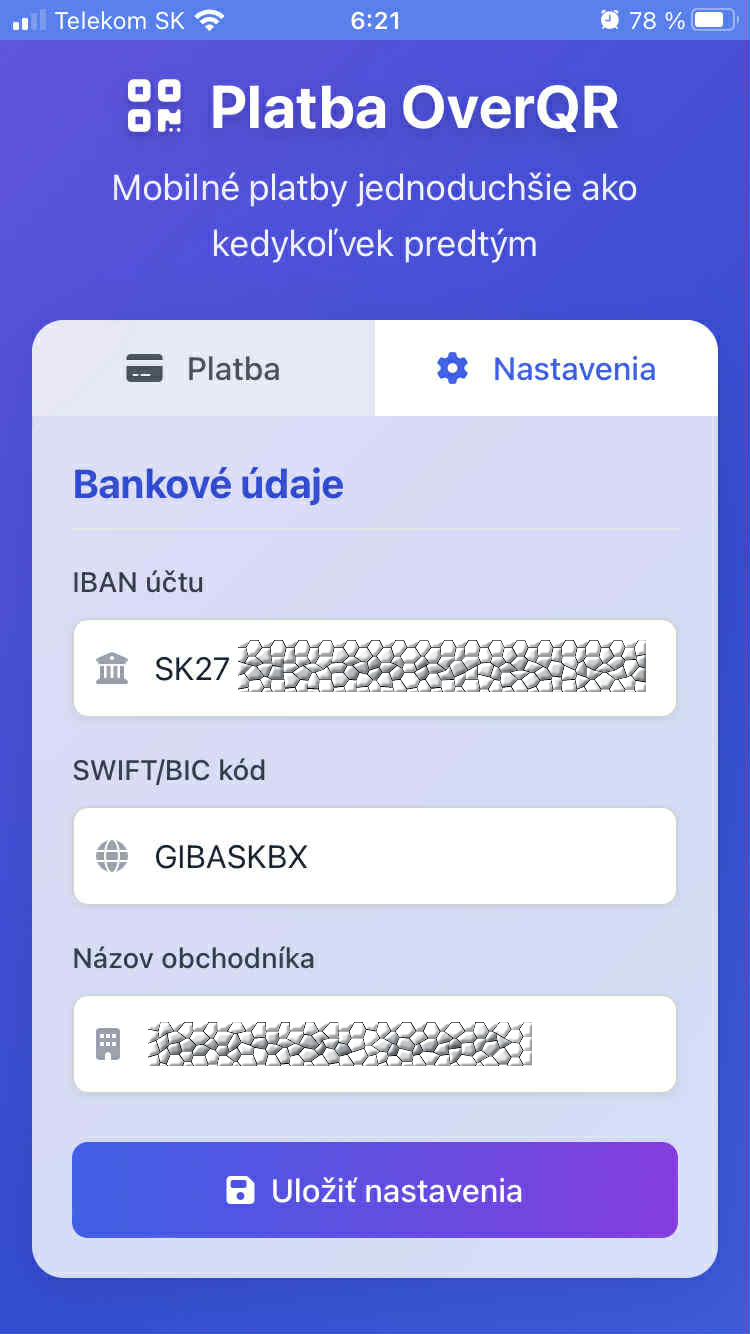
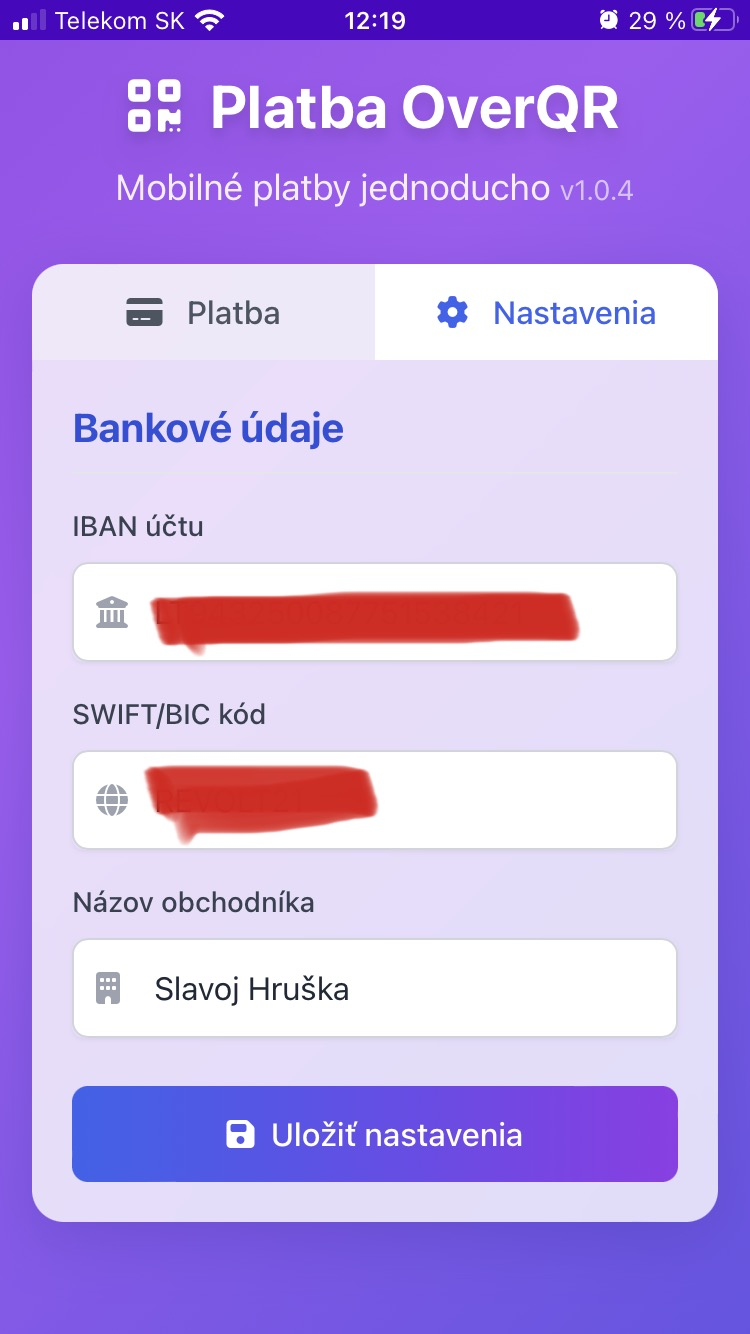
Vylepsenie upgrade procedury, koli CloudFlare cache

diff --git a/index.html b/index.html
@@ -36,7 +36,7 @@
     <meta name="apple-mobile-web-app-title" content="Platba OverQR">
 
     <!-- PWA podpora -->
-    <link rel="manifest" href="manifest.json">
+    <link rel="manifest" href="manifest.json?v=1.0.4">
     <link rel="icon" href="logo.svg" type="image/svg+xml">
     <link rel="icon" href="favicon.ico" type="image/x-icon">
     <link rel="shortcut icon" href="favicon.ico" type="image/x-icon">
@@ -71,7 +71,7 @@
     <script>
         if ('serviceWorker' in navigator) {
             window.addEventListener('load', function () {
-                navigator.serviceWorker.register('sw.js').then(function (registration) {
+                navigator.serviceWorker.register('sw.js?v=1.0.4').then(function (registration) {
                     // Registrácia bola úspešná
                     console.log('ServiceWorker registration successful with scope: ', registration.scope);
                     // Sledovanie úspešnej registrácie service workera
@@ -229,7 +229,7 @@
             }); var f = d.getElementsByTagName(s)[0],
                 j = d.createElement(s), dl = l != 'dataLayer' ? '&l=' + l : ''; j.async = true; j.src =
                     'https://www.googletagmanager.com/gtm.js?id=' + i + dl; f.parentNode.insertBefore(j, f);
-        })(window, document, 'script', 'dataLayer', 'GTM-56CKR4RC');</script>
+        })(window, document, 'script', 'dataLayer', 'GTM-56CKR4RC');</script> 
 
     <!-- Google tag (gtag.js) -->
     <script async src="https://www.googletagmanager.com/gtag/js?id=G-6CLTP3Q8GS"></script>
@@ -1063,7 +1063,7 @@
         }
 
         // Kód pre detekciu aktualizácií aplikácie
-        const APP_VERSION = '1.0.2';
+        const APP_VERSION = '1.0.4';
 
         // Zobrazenie verzie v hlavičke
         document.addEventListener('DOMContentLoaded', function () {
@@ -1072,6 +1072,17 @@
                 versionDisplay.textContent = `v${APP_VERSION}`;
             }
         });
+
+        // Cache-busting reload function
+        function reloadWithCacheBusting() {
+            let url = window.location.origin + window.location.pathname;
+            // Zachová hash, ak je prítomný
+            const hash = window.location.hash;
+            // Pridaj alebo aktualizuj parameter v
+            url += '?v=' + Date.now();
+            if (hash) url += hash;
+            window.location.replace(url);
+        }
 
         // Čakanie na správy od service workera
         if ('serviceWorker' in navigator) {
@@ -1084,7 +1095,7 @@
                     // Zobraziť užívateľovi notifikáciu o dostupnej aktualizácii
                     const notification = document.getElementById('update-notification');
                     if (notification) {
-                        notification.innerHTML = `Je dostupná nová verzia (${event.data.newVersion})! <button class="bg-white text-secondary-700 px-2 py-1 rounded ml-3 font-medium" onclick="window.location.reload()">Aktualizovať teraz</button>`;
+                        notification.innerHTML = `Je dostupná nová verzia (${event.data.newVersion})! <button class=\"bg-white text-secondary-700 px-2 py-1 rounded ml-3 font-medium\" onclick=\"reloadWithCacheBusting()\">Aktualizovať teraz</button>`;
                         notification.classList.remove('hidden');
 
                         // Sledovať notifikáciu v GTM
@@ -1095,6 +1106,25 @@
                         });
                     }
                 }
+            });
+
+            // Kontrola aktualizácií po načítaní stránky a každých 30 minút
+            window.addEventListener('load', function () {
+                setTimeout(() => {
+                    if (navigator.serviceWorker.controller) {
+                        navigator.serviceWorker.controller.postMessage({
+                            type: 'CHECK_VERSION'
+                        });
+                    }
+                }, 1000);
+                // Intervalová kontrola každých 30 minút
+                setInterval(() => {
+                    if (navigator.serviceWorker.controller) {
+                        navigator.serviceWorker.controller.postMessage({
+                            type: 'CHECK_VERSION'
+                        });
+                    }
+                }, 1800000); // 30 minút
             });
 
             // Kontrola aktualizácií po načítaní stránky

diff --git a/sw.js b/sw.js
@@ -1,4 +1,4 @@
-const APP_VERSION = '1.0.2';
+const APP_VERSION = '1.0.4';
 const CACHE_NAME = `overqr-v${APP_VERSION}`;
 const urlsToCache = [
   '/',
